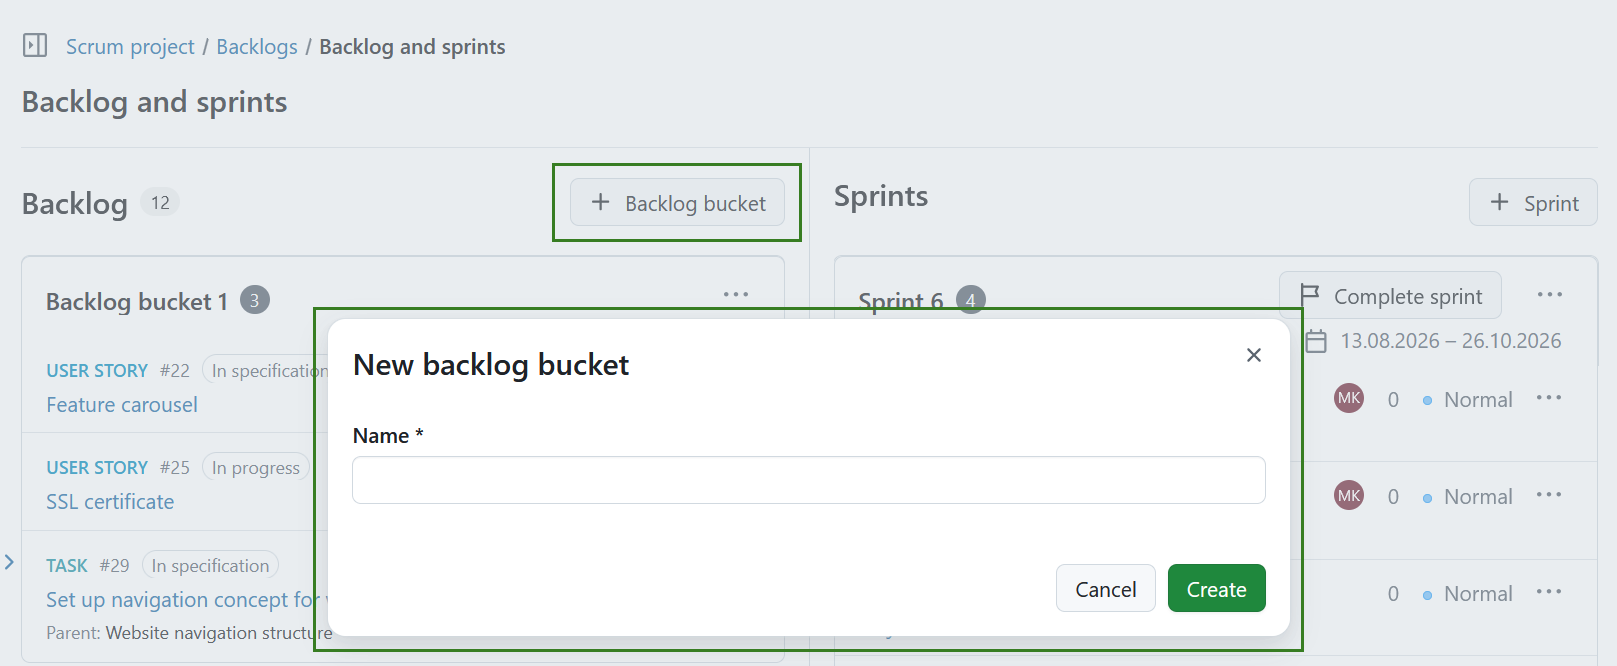
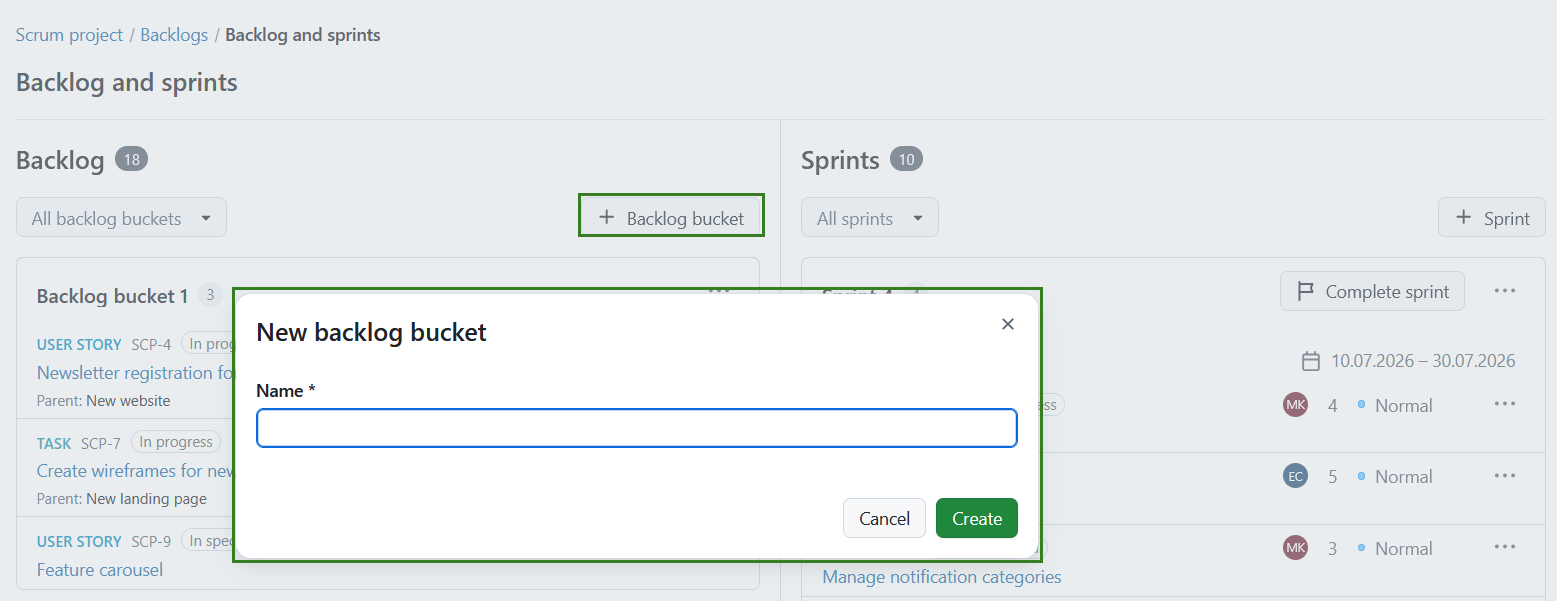
[DOCU-844] 17.7 Agile changes  https://community.openproject.org/wp/DOCU-844
[DOCU-844] 17.7 Agile changes

https://community.openproject.org/wp/DOCU-844

diff --git a/docs/user-guide/backlogs-scrum/README.md b/docs/user-guide/backlogs-scrum/README.md
@@ -67,7 +67,7 @@ A work package:
 - cannot belong to a sprint and a backlog bucket at the same time.
 - cannot belong to a backlog bucket and the Inbox backlog at the same time.
 
-You can sort work packages within all containers (backlog bucket, inbox and sprints)  via drag and drop or by using the **Move** option from the work package menu.
+You can sort work packages within all containers (backlog bucket, inbox and sprints)  via drag and drop or by using the **Move** option from the work package menu. You can also add new and existing work packages within all containers (backlog bucket, inbox and sprints) by using the **More (three dots)** menu.
 
 #### Create a backlog bucket
 
@@ -85,13 +85,15 @@ Open the **More (three dots)** menu of a backlog bucket to:
 - Edit the backlog bucket
 - Delete the backlog bucket
 
+![Menu option to edit and delete a backlog bucket](openproject_user_guide_backlog_bucket_more_menu.png)
+
 When deleting a backlog bucket, all contained work packages are automatically moved to the bottom of the Inbox backlog. 
 
 Work packages can also be moved directly into a backlog bucket from the work packages More menu. If multiple backlog buckets exist, OpenProject lets you choose the target bucket. The work package is placed at the bottom of the selected bucket.
 
 #### All backlog buckets
 
-The all backlog buckets button is a multi-select dropdown that allows you filter for buckets within your backlog. Click on **All backlog buckets**. Select the specific backlog bucket(s) you want displayed or type in the search box to filter the list. Click **Apply** to save your changes. 
+The all backlog buckets button is a multi-select dropdown that allows you to filter for buckets within your backlog. Click on **All backlog buckets**. Select the specific backlog bucket(s) you want displayed or type in the search box to filter the list. Click **Apply** to save your changes. 
 
 ![Filter for all backlog buckets in Backlog and sprints](openproject_user_guide_all_backlog_bucket_filter.png)
 
@@ -133,7 +135,8 @@ Depending on the current location of the work package, you can move it:
 
 - into the Inbox backlog,
 - into another backlog bucket,
-- into another sprint.
+- into another sprint,
+- within the current backlog bucket or sprint
 
 ![Move options menu for a backlog item showing reorder and sprint assignment options](openproject_user_guide_backlog_move_options.png)
 
@@ -215,13 +218,13 @@ Sprint details, including the sprint goal, can also be edited through the **Edit
 
 #### All sprints filter
 
-The all sprints button is a multi-select dropdown that allows you filter for sprints. Click on **All sprints**. Select the specific sprint container(s) you want displayed or type in the search box to filter the list. Click **Apply** to save your changes. 
+The all sprints button is a multi-select dropdown that allows you to filter for sprints. Click on **All sprints**. Select the specific sprint container(s) you want displayed or type in the search box to filter the list. Click **Apply** to save your changes. 
 
 ![Filter for all sprints in backlog and sprints](openproject_user_guide_all_sprints_filter.png)
 
 ### Add a new work package
 
-In order to create a new work package in the Backlogs module, click on the More (three dots) icon in the top right corner of a Sprint and choose **+ Add new work package** from the drop-down menu. A form dialog will appear to create a new work package. Here, you directly specify the work package type, subject, and description. Click **Create** to proceed.
+In order to create a new work package in the Backlogs module, click on the More (three dots) icon in the top right corner of a Sprint, Backlog bucket or Inbox backlog and choose **+ Add new work package** from the drop-down menu. A form dialog will appear to create a new work package. Here, you directly specify the work package type, subject, and description. Click **Create** to proceed.
 
 ![A new work package added to a sprint directly in OpenProject Backlogs module](openproject_user_guide_backlogs_new_wp_form.png)
 
@@ -229,11 +232,11 @@ A new item will be added to the backlog to display the newly created story.
 
 ### Add existing work package
 
-In order to add an existing work package in the Backlogs module, click on the More (three dots) icon in the top right corner of a Sprint and choose **Add existing work package** from the drop-down menu. A form dialog will appear to add work packages already in the backlog. 
+In order to add an existing work package in the Backlogs module, click on the More (three dots) icon in the top right corner of a Sprint, Backlog bucket or Inbox backlog and choose **Add existing work package** from the drop-down menu. A form dialog will appear to add work packages already in the backlog. 
 
 ![Form dialog to add an existing work package to a sprint directly in OpenProject Backlogs module](openproject_user_guide_backlogs_add_existing_wp_form.png)
 
-In the search panel, enter the work package type, subject or ID. Select the displayed work package and click **Add** to proceed. The items in the Sprint  becomes updated.
+In the search panel, enter the work package type, subject or ID. Select the displayed work package and click **Add** to proceed. The items in the Sprint becomes updated.
 
 ![An existing work package selected and added to a sprint directly in OpenProject Backlogs module](openproject_user_guide_backlogs_select_existing_wp.png)
 

diff --git a/docs/user-guide/projects/project-settings/backlogs-settings/README.md b/docs/user-guide/projects/project-settings/backlogs-settings/README.md
@@ -108,6 +108,6 @@ Multiple active sprints is a **project-level setting** that allows you to enable
 
 > [!NOTE] 
 >
-> There is no limit to the number of sprints that can be activated or run in parallel within a project. To access this setting, **Don't share** option in the sprint sharing tab must be selected. 
+> Having multiple active sprints is only possible when the project is neither sharing nor receiving sprints. To activate this setting, **Don't share** option in the sprint sharing tab must be selected. 
 
 ![Activate multiple active sprints under project settings in OpenProject](openproject_user_guide_project_settings_backlogs_allow_multiple_active_sprints.png)
